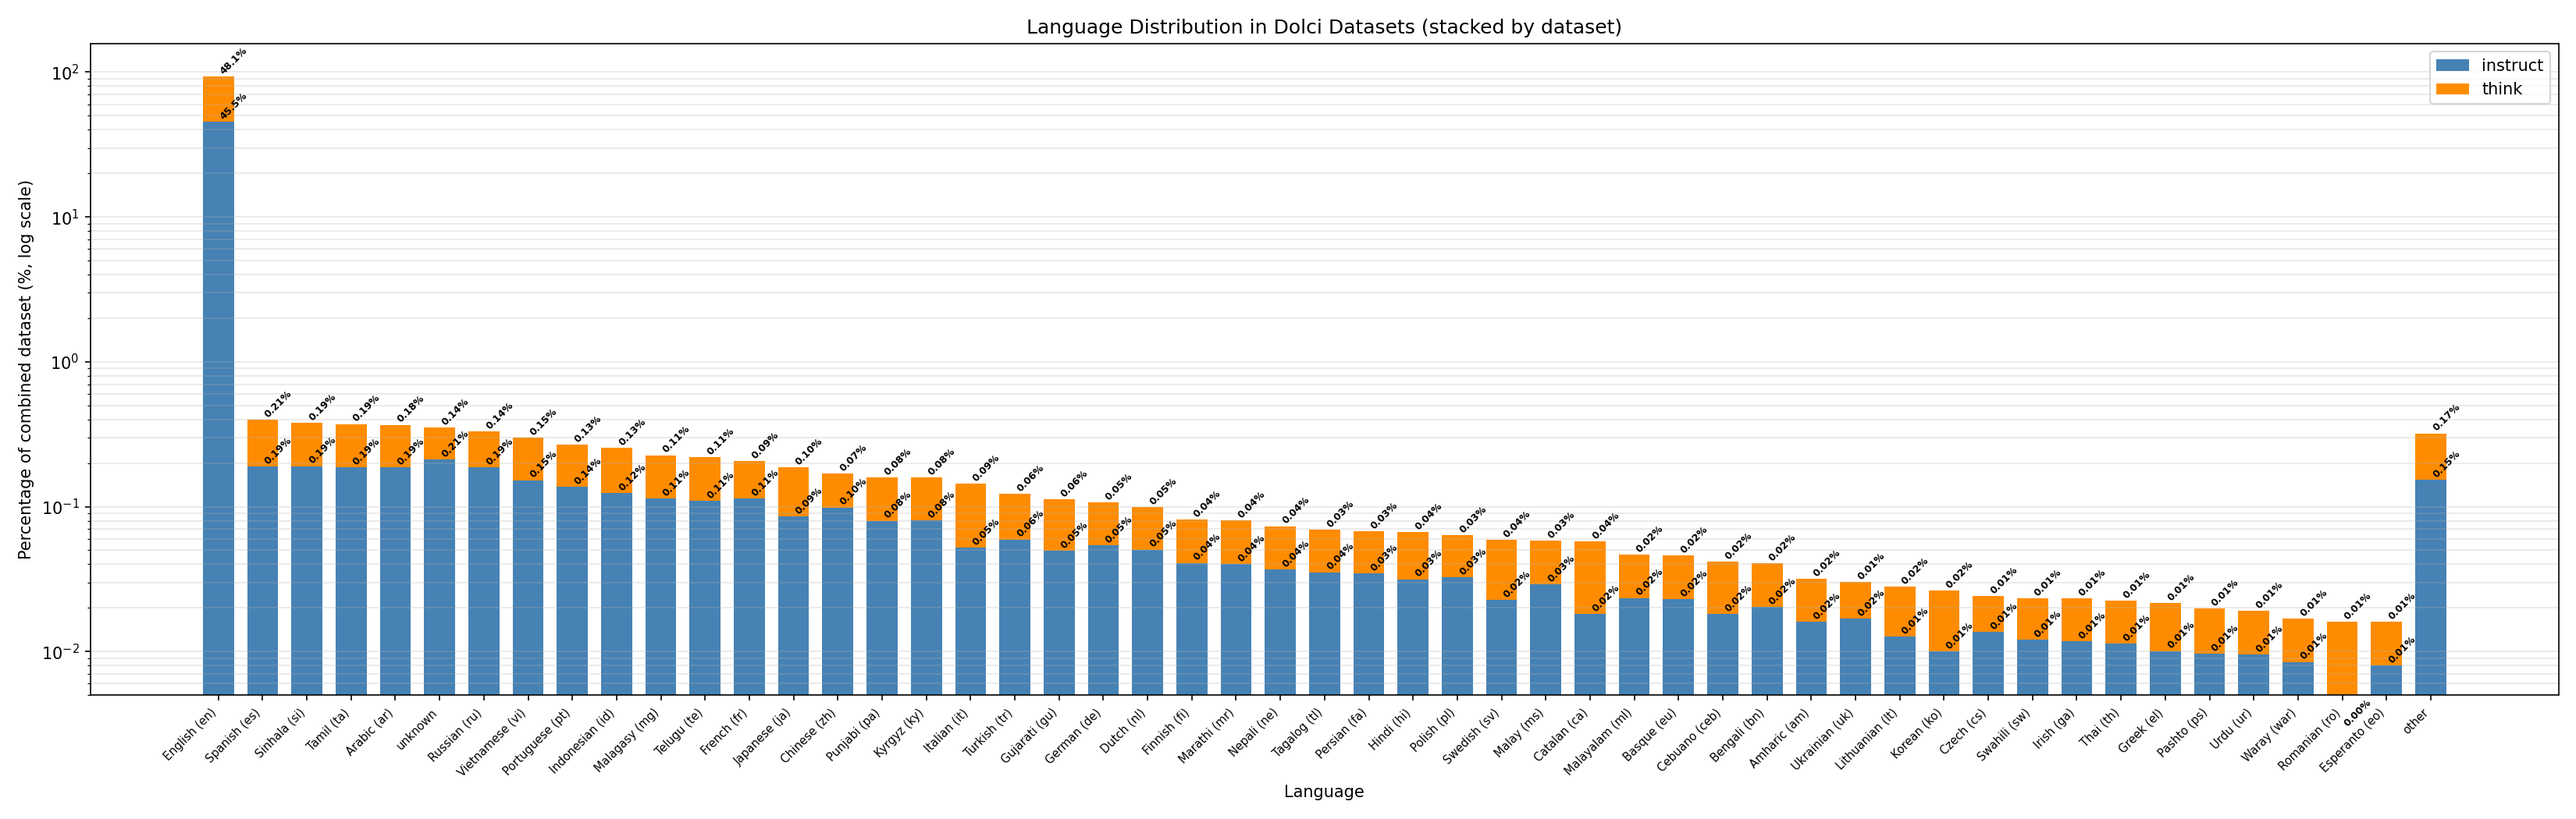
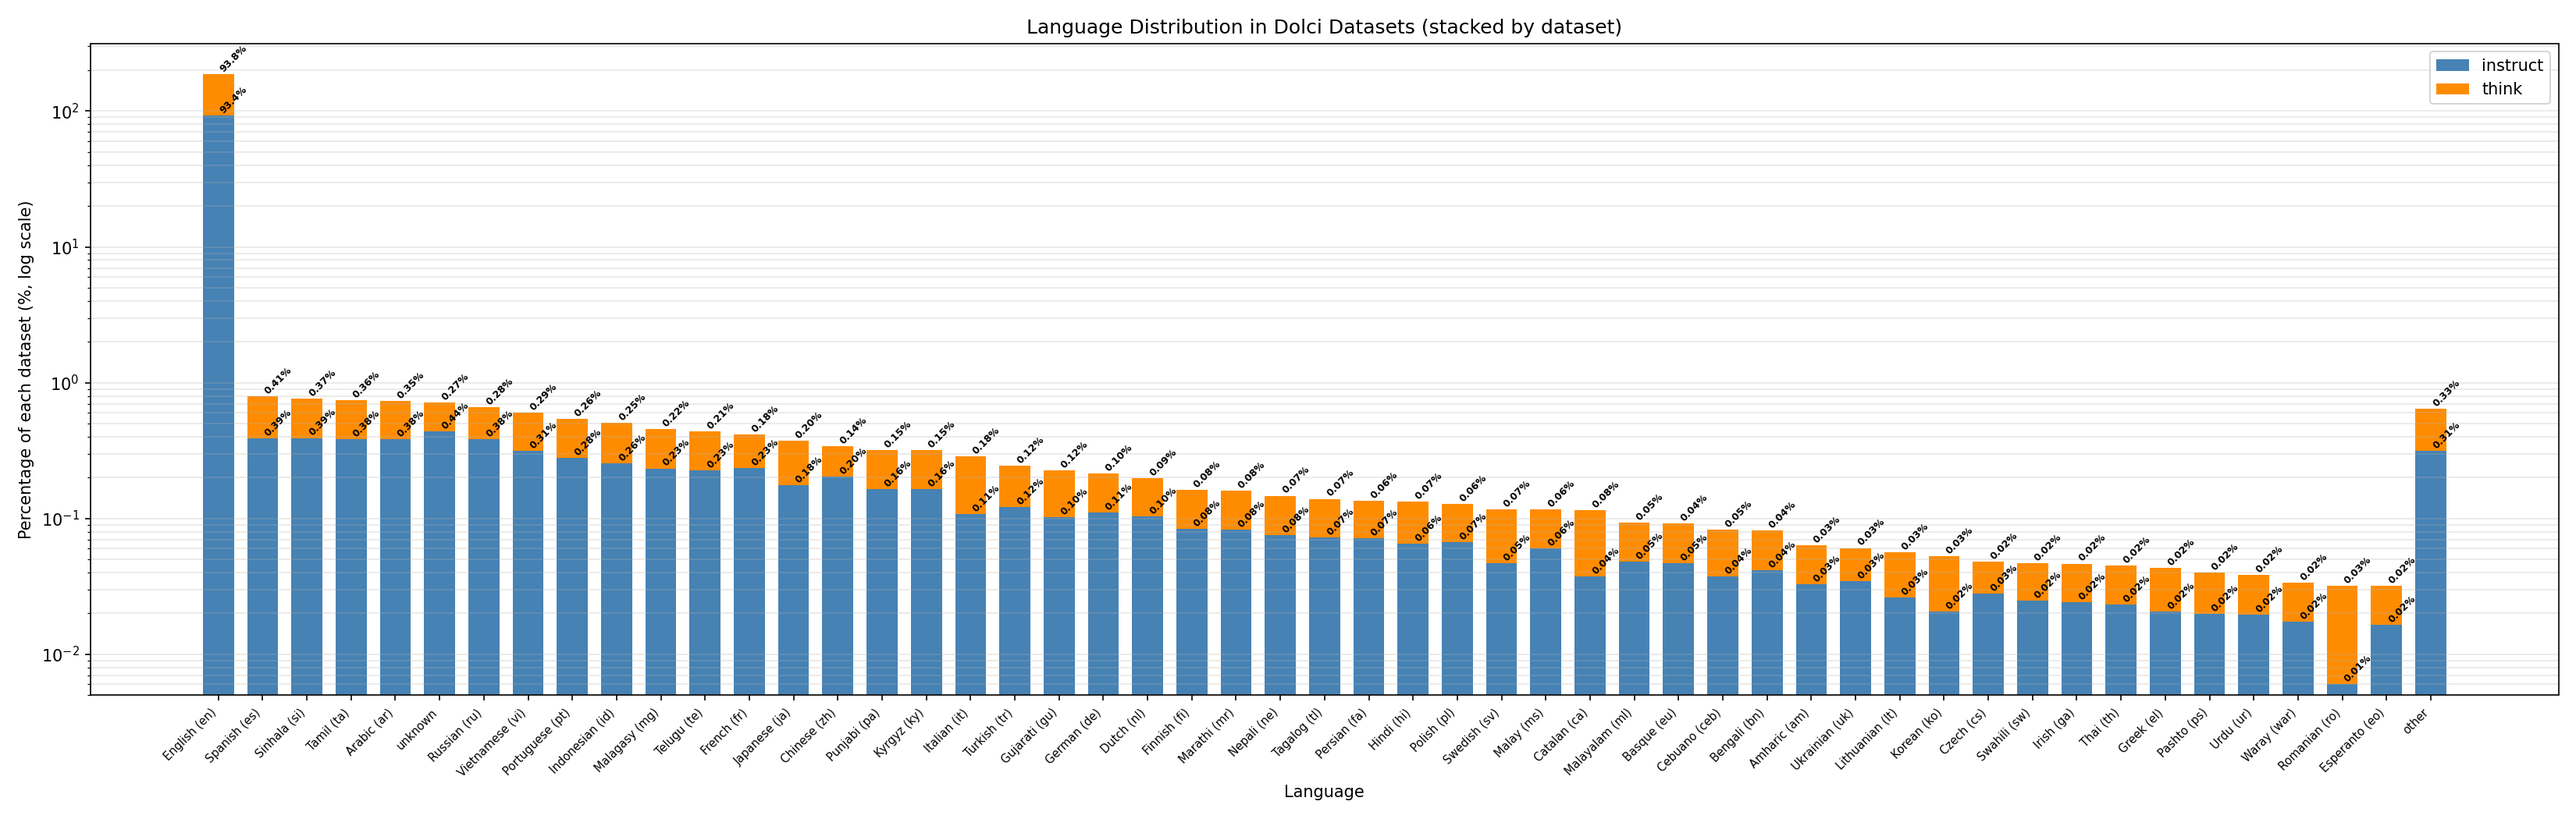
Fix language distribution plot: use per-dataset percentages instead of combined total

diff --git a/oellm/experiments/dolci_distribution/scripts/detect_language_distribution.py b/oellm/experiments/dolci_distribution/scripts/detect_language_distribution.py
@@ -327,14 +327,15 @@ def plot_language_distribution(
     dataset_names = list(results.keys())
     colors = ["steelblue", "darkorange", "seagreen", "firebrick"]
 
-    # Compute per-dataset contribution as % of combined total
+    # Compute per-dataset contribution as % of each dataset's own total
     dataset_pcts = {}
     for name, result in results.items():
-        pcts = [result["language_counts"].get(lang, 0) / total_all * 100 for lang in top_langs]
+        ds_total = result["total_samples"]
+        pcts = [result["language_counts"].get(lang, 0) / ds_total * 100 for lang in top_langs]
         other_count = sum(
             count for lang, count in result["language_counts"].items() if lang not in top_langs
         )
-        pcts.append(other_count / total_all * 100)
+        pcts.append(other_count / ds_total * 100)
         dataset_pcts[name] = pcts
 
     fig, ax = plt.subplots(figsize=(22, 7))
@@ -365,7 +366,7 @@ def plot_language_distribution(
 
     ax.set_yscale("log")
     ax.set_xlabel("Language")
-    ax.set_ylabel("Percentage of combined dataset (%, log scale)")
+    ax.set_ylabel("Percentage of each dataset (%, log scale)")
     ax.set_title("Language Distribution in Dolci Datasets (stacked by dataset)")
     ax.set_xticks(x)
     ax.set_xticklabels([lang_label(l) for l in display_langs], rotation=45, ha="right", fontsize=7)

diff --git a/oellm/experiments/multilingual_eu/results/issue_186_draft.md b/oellm/experiments/multilingual_eu/results/issue_186_draft.md
@@ -4,7 +4,7 @@ We're investigating how to add multilingual capabilities to OLMo-3-7B without ca
 
 ### Motivation: Dolci-Instruct-SFT is 93% English
 
-The base checkpoint's training data (2.15M samples) is overwhelmingly English with a long tail of ~160 languages, each below 0.4%. This motivates our experiments: can we improve EU language performance by mixing in translated data during continued SFT?
+The base checkpoint's training data (Dolci-Instruct-SFT: 2.15M samples, Dolci-Think-SFT: 2.27M samples) is ~93-94% English with a long tail of ~160 languages, none exceeding ~0.2%. This motivates our experiments: can we improve EU language performance by mixing in translated data during continued SFT?
 
 ![Dolci-Instruct-SFT language counts](https://github.com/ferreirafabio/open-instruct/blob/main/oellm/experiments/dolci_distribution/results/dolci_language_counts.png?raw=true)
 
